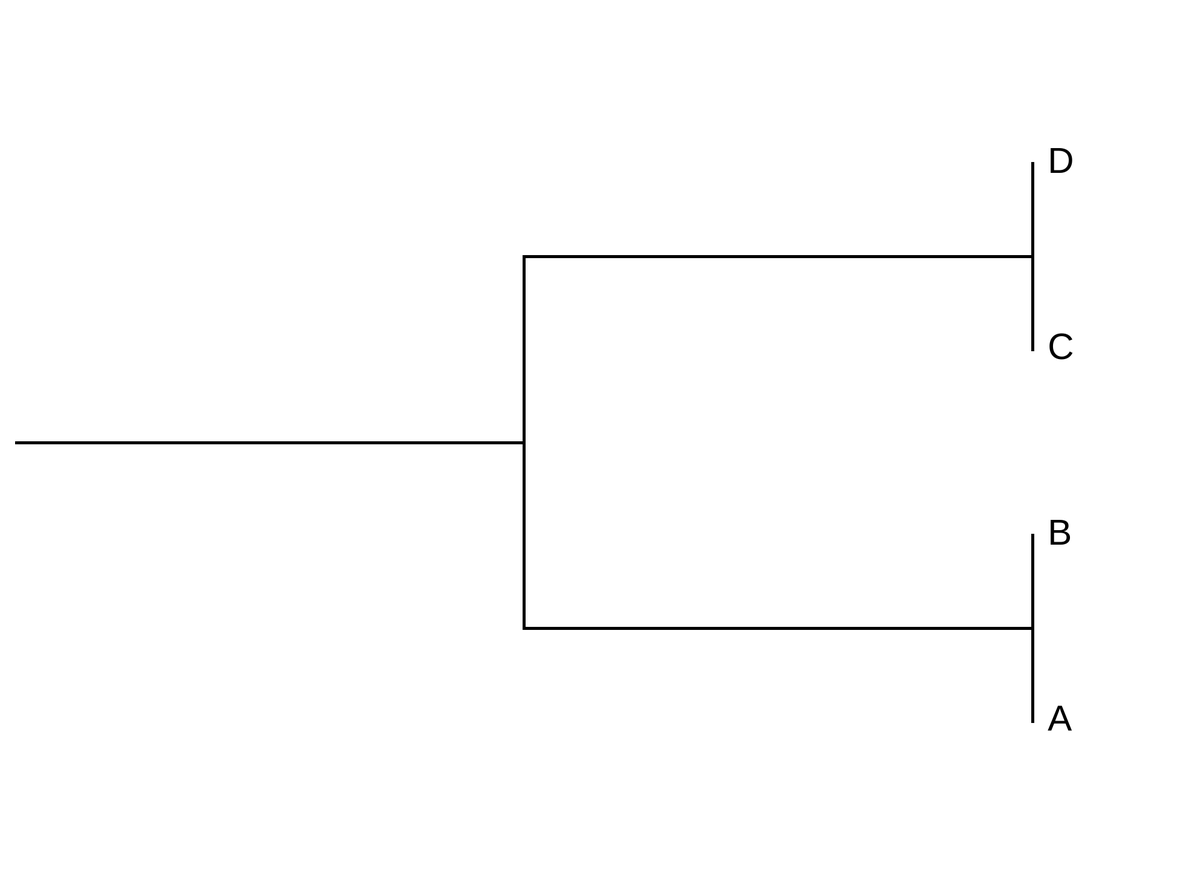
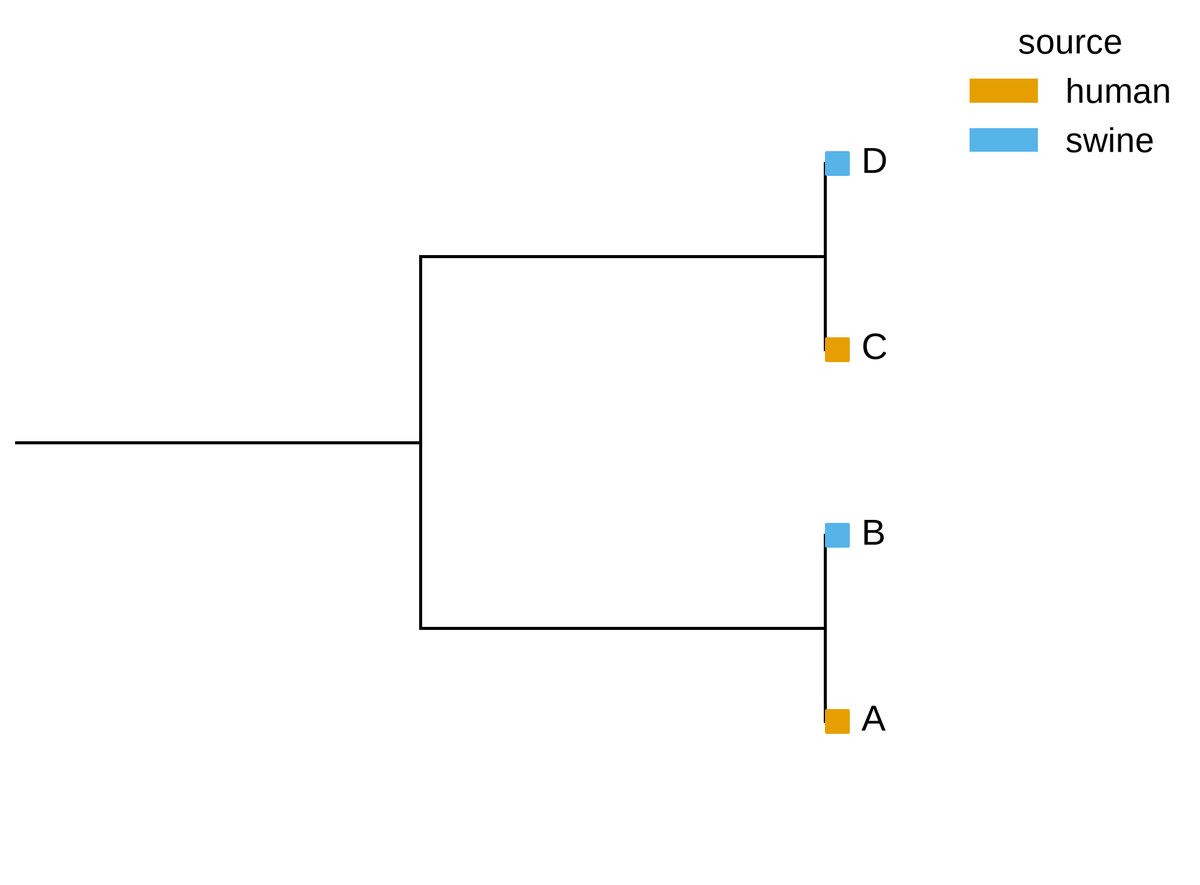
feat(analysis): tree tip annotation
- newick-to-table accepts --metadata (tip/sample/id key + annotation columns),
  copies values onto tip rows and records unmatched tips in metadata_missing.txt
- tree chart uses --hue to draw a coloured tip band and legend in both backends
- docs tutorial 09 updated with annotation example; 294 tests

diff --git a/src/gaxis/analysis/tree.py b/src/gaxis/analysis/tree.py
@@ -18,10 +18,10 @@ from ..models.analysis import AnalysisRun
 
 RECIPE_TREE = {
     "id": "newick-to-table",
-    "title": "Newick tree -> edge table",
-    "input": ".nwk/.newick/.tree Newick file",
+    "title": "Newick tree -> edge table (optional tip metadata)",
+    "input": ".nwk/.newick/.tree Newick file, optional metadata table",
     "outputs": ["tree_edges.csv"],
-    "params": [],
+    "params": ["metadata"],
     "engine": "python (stdlib only)",
     "note": "layout/format conversion only; the tree itself comes from IQ-TREE or bacmap",
 }
@@ -166,17 +166,64 @@ def parse_newick(text: str) -> list[dict[str, Any]]:
     return edges
 
 
-def run_newick_to_table(input_path: Path, *, out_dir: Path) -> AnalysisRun:
+def _read_metadata(
+    path: Path,
+) -> tuple[dict[str, dict[str, str]], list[str]]:
+    if not path.is_file():
+        raise GaxisError("data_not_found", f"metadata table not found: {path}")
+    delimiter = "\t" if path.suffix.lower() in {".tsv", ".tab"} else ","
+    with path.open(newline="", encoding="utf-8-sig") as handle:
+        reader = csv.DictReader(handle, delimiter=delimiter)
+        header = reader.fieldnames or []
+        keys = ("tip", "sample", "id", "name", "genome", "strain", "isolate")
+        key = next((name for name in header if name.lower() in keys), header[0] if header else "")
+        if not key:
+            raise GaxisError("data_contract_violation", "metadata table has no key column")
+        columns = [name for name in header if name != key]
+        records: dict[str, dict[str, str]] = {}
+        for row in reader:
+            value = (row.get(key) or "").strip()
+            if value:
+                records[value] = {name: (row.get(name) or "").strip() for name in columns}
+    if not records:
+        raise GaxisError("empty_input", "metadata table has no rows")
+    return records, columns
+
+
+def run_newick_to_table(
+    input_path: Path, *, out_dir: Path, metadata_path: Path | None = None
+) -> AnalysisRun:
     if not input_path.is_file():
         raise GaxisError("data_not_found", f"tree file not found: {input_path}")
+    out_dir = out_dir.expanduser().resolve()
+    out_dir.mkdir(parents=True, exist_ok=True)
     edges = parse_newick(input_path.read_text(encoding="utf-8", errors="replace"))
+    metadata: dict[str, dict[str, str]] = {}
+    metadata_columns: list[str] = []
+    metadata_sha = ""
+    unmatched: list[str] = []
+    if metadata_path is not None:
+        metadata, metadata_columns = _read_metadata(metadata_path)
+        metadata_sha = hashlib.sha256(metadata_path.read_bytes()).hexdigest()
+        tips = {edge["child"] for edge in edges if edge["is_tip"]}
+        for edge in edges:
+            if not edge["is_tip"]:
+                continue
+            values = metadata.get(str(edge["child"]), {})
+            for column in metadata_columns:
+                edge[column] = values.get(column, "")
+        unmatched = sorted(tips - set(metadata))
     digest = hashlib.sha256(input_path.read_bytes()).hexdigest()
     run_id = hashlib.sha256(f"newick-to-table-v1:{digest}".encode()).hexdigest()[:10]
     target = out_dir / run_id
     target.mkdir(parents=True, exist_ok=True)
+    if unmatched:
+        # Metadata is optional per tip; record the gap instead of guessing.
+        (target / "metadata_missing.txt").write_text("\n".join(unmatched) + "\n", encoding="utf-8")
     path = target / "tree_edges.csv"
     with path.open("w", newline="", encoding="utf-8") as handle:
-        writer = csv.DictWriter(handle, fieldnames=["parent", "child", "branch_length", "is_tip"])
+        fieldnames = ["parent", "child", "branch_length", "is_tip", *metadata_columns]
+        writer = csv.DictWriter(handle, fieldnames=fieldnames, extrasaction="ignore")
         writer.writeheader()
         writer.writerows(edges)
     run = AnalysisRun(
@@ -184,7 +231,11 @@ def run_newick_to_table(input_path: Path, *, out_dir: Path) -> AnalysisRun:
         recipe="newick-to-table",
         input_path=str(input_path),
         input_sha256=digest,
-        params={},
+        params={
+            "metadata": str(metadata_path) if metadata_path else "",
+            "metadata_sha256": metadata_sha,
+            "metadata_columns": metadata_columns,
+        },
         samples=0,
         genes=0,
         edges=len(edges),

diff --git a/tests/test_tree.py b/tests/test_tree.py
@@ -32,11 +32,10 @@ def test_parse_newick_rejects_garbage() -> None:
     assert excinfo.value.code == "tree_parse_failed"
 
 
-def _edges(tmp_path: Path) -> Path:
-    run = run_newick_to_table((tmp_path / "tree.nwk"), out_dir=tmp_path / "out") if False else None
+def _edges(tmp_path: Path, metadata: Path | None = None) -> Path:
     tree = tmp_path / "tree.nwk"
     tree.write_text(NEWICK, encoding="utf-8")
-    run = run_newick_to_table(tree, out_dir=tmp_path / "out")
+    run = run_newick_to_table(tree, out_dir=tmp_path / "out", metadata_path=metadata)
     return Path(run.outputs["tree_edges"])
 
 
@@ -60,3 +59,48 @@ def test_tree_renders_in_both_backends(tmp_path: Path) -> None:
         assert result.outputs
         code = Path(result.code_path).read_text(encoding="utf-8")
         assert "import gaxis" not in code
+
+
+def test_metadata_columns_are_annotated(tmp_path: Path) -> None:
+    metadata = tmp_path / "meta.csv"
+    metadata.write_text(
+        "tip,source,amr_class\nA,human,beta-lactam\nB,swine,beta-lactam\n"
+        "C,human,tetracycline\nD,swine,tetracycline\n",
+        encoding="utf-8",
+    )
+    edges = _edges(tmp_path, metadata)
+    text = edges.read_text(encoding="utf-8")
+    assert "source" in text
+    assert "human" in text
+
+
+def test_tree_hue_renders_in_both_backends(tmp_path: Path) -> None:
+    metadata = tmp_path / "meta.csv"
+    metadata.write_text("tip,source\nA,human\nB,swine\nC,human\nD,swine\n", encoding="utf-8")
+    edges = _edges(tmp_path, metadata)
+    for backend in ("python", "r"):
+        result = render(
+            RenderRequest(
+                data_path=str(edges),
+                out_dir=str(tmp_path / f"hue-{backend}"),
+                chart_type="tree",
+                x="parent",
+                y="child",
+                weight="branch_length",
+                hue="source",
+                preset="asm",
+                backend=backend,  # type: ignore[arg-type]
+                formats=["pdf", "png"],
+            )
+        )
+        assert result.lint.ok, result.lint.format_text()
+
+
+def test_metadata_rejects_an_empty_table(tmp_path: Path) -> None:
+    metadata = tmp_path / "empty.csv"
+    metadata.write_text("tip,source\n", encoding="utf-8")
+    tree = tmp_path / "tree.nwk"
+    tree.write_text(NEWICK, encoding="utf-8")
+    with pytest.raises(GaxisError) as excinfo:
+        run_newick_to_table(tree, out_dir=tmp_path / "out", metadata_path=metadata)
+    assert excinfo.value.code == "empty_input"

diff --git a/src/gaxis/adapters/cli.py b/src/gaxis/adapters/cli.py
@@ -1009,7 +1009,10 @@ def analysis_check_cmd(
 @analysis_app.command("run")
 def analysis_run_cmd(
     recipe: str = typer.Argument(..., help="recipe id, e.g. amr-cooccurrence"),
-    input: Path = typer.Option(..., "--input", "-i", help="long table: sample,gene[,gene_class]"),
+    input: Path = typer.Option(..., "--input", "-i", help="long table or Newick file"),
+    metadata: Path | None = typer.Option(
+        None, "--metadata", help="tip metadata table for newick-to-table"
+    ),
     out: Path | None = typer.Option(None, "--out"),
     min_prevalence: float = typer.Option(0.05, "--min-prevalence"),
     min_support: int = typer.Option(2, "--min-support"),
@@ -1024,6 +1027,7 @@ def analysis_run_cmd(
             recipe,
             input_path=input,
             out_dir=out,
+            metadata_path=metadata,
             params=AmrCooccurrenceParams(
                 min_prevalence=min_prevalence,
                 min_support=min_support,

diff --git a/src/gaxis/service.py b/src/gaxis/service.py
@@ -1518,12 +1518,13 @@ def analysis_run(
     input_path: Path,
     out_dir: Path | None = None,
     params: AmrCooccurrenceParams | None = None,
+    metadata_path: Path | None = None,
 ) -> AnalysisRun:
     """Run an analysis recipe on the user's table and write nodes/edges."""
     conf = settings()
     target = (out_dir or (conf.data_root / "analysis")).expanduser().resolve()
     if recipe == "newick-to-table":
-        return run_newick_to_table(input_path, out_dir=target)
+        return run_newick_to_table(input_path, out_dir=target, metadata_path=metadata_path)
     if recipe != "amr-cooccurrence":
         raise GaxisError(
             "unknown_recipe",

diff --git a/docs/tutorial/09-snp-tree-workflow.md b/docs/tutorial/09-snp-tree-workflow.md
@@ -46,6 +46,18 @@ results/iqtree.log
 - `metadata` is optional and reserved for tree annotation in the next step.
 - bacmap can schedule the same Snakefile; gaxis is not in the execution path.
 
+## Join tip metadata (optional)
+
+```bash
+pixi run gaxis analysis run newick-to-table \
+  --input results/tree.nwk --metadata metadata.csv --out data/analysis
+```
+
+`metadata.csv` needs a key column (`tip`, `sample`, `id`, `name`, `genome`, `strain` or
+`isolate`) plus any annotation columns; values are copied onto tip rows, so the tree table
+gains `source`, `amr_class`, etc. Missing tips are listed in `metadata_missing.txt` inside the
+run directory instead of being guessed.
+
 ## Render the tree
 
 ```bash
@@ -54,14 +66,15 @@ pixi run gaxis analysis run newick-to-table \
 
 pixi run gaxis render \
   --data data/analysis/<run_id>/tree_edges.csv \
-  --chart tree --x parent --y child --weight branch_length \
+  --chart tree --x parent --y child --weight branch_length --hue source \
   --preset asm --out data/figures
 ```
 
-Rectangular cladogram, branch lengths from `branch_length`, tip labels; matplotlib and
-ggplot2 both render it. The tree itself still comes from IQ-TREE, not gaxis.
+Rectangular cladogram, branch lengths from `branch_length`, tip labels, and a colour band
+per tip from `--hue` (`source` in this example) with a legend. matplotlib and ggplot2 both
+render it. The tree itself still comes from IQ-TREE, not gaxis.
 
-![Tree example](/gaxis/assets/example-tree.png)
+![Annotated tree example](/gaxis/assets/example-tree.png)
 
 ## Validate another checkout
 
@@ -86,5 +99,6 @@ pixi run gaxis analysis check workflows/snp-tree
 
 ## Next
 
-Tree annotation (AMR class / source / type colour bands next to the tips) is the next step; the
-tree layout and workflow output are already stable contracts.
+Multi-column annotation strips (source + AMR class + type side by side) and shared legends with
+the AMR network figure are the next step; the single-column annotation and workflow output are
+stable contracts.

diff --git a/docs/tutorial/09-snp-tree-workflow.zh.md b/docs/tutorial/09-snp-tree-workflow.zh.md
@@ -45,6 +45,17 @@ results/iqtree.log
 - `metadata` 可选，留给下一步的树注释。
 - bacmap 可以调度同一个 Snakefile；gaxis 不在执行路径里。
 
+## 合并 tip metadata（可选）
+
+```bash
+pixi run gaxis analysis run newick-to-table \
+  --input results/tree.nwk --metadata metadata.csv --out data/analysis
+```
+
+`metadata.csv` 需要一个 key 列（`tip`、`sample`、`id`、`name`、`genome`、`strain` 或 `isolate`）
+以及任意注释列；值会复制到 tip 行，树表因此多出 `source`、`amr_class` 等列。缺失的 tip 会写入
+运行目录的 `metadata_missing.txt`，不猜。
+
 ## 渲染树
 
 ```bash
@@ -53,14 +64,14 @@ pixi run gaxis analysis run newick-to-table \
 
 pixi run gaxis render \
   --data data/analysis/<run_id>/tree_edges.csv \
-  --chart tree --x parent --y child --weight branch_length \
+  --chart tree --x parent --y child --weight branch_length --hue source \
   --preset asm --out data/figures
 ```
 
-矩形进化树；分支长度来自 `branch_length`，tip 标签自动放置；matplotlib 与 ggplot2 双后端。
-树本身仍由 IQ-TREE 生成，gaxis 只做布局与出图。
+矩形进化树；分支长度来自 `branch_length`，tip 标签自动放置，`--hue`（这里是 `source`）在 tip
+旁画色带并生成图例。matplotlib 与 ggplot2 双后端。树本身仍由 IQ-TREE 生成，gaxis 只做布局与出图。
 
-![树图示例](/gaxis/assets/example-tree.png)
+![带注释的树图示例](/gaxis/assets/example-tree.png)
 
 ## 校验已有项目
 
@@ -85,4 +96,5 @@ pixi run gaxis analysis check workflows/snp-tree
 
 ## 下一步
 
-树注释（AMR 类别 / 来源 / 型别色带贴在 tip 旁）是下一步；树布局与工作流输出已经是稳定契约。
+多列注释条（source + AMR class + 型别并排）以及与 AMR 网络图共享图例是下一步；单列注释与工作流
+输出已经是稳定契约。

diff --git a/docs/reference/cli.md b/docs/reference/cli.md
@@ -102,7 +102,7 @@ Single-figure reproduction → grading → automatic assetization + KB refresh.
 |---|---|
 | `gaxis analysis list [--json]` | available analysis recipes, input contract, outputs |
 | `gaxis analysis run amr-cooccurrence --input TABLE [--out DIR] [--min-prevalence F] [--min-support N] [--weight jaccard\|count]` | table → `nodes.csv` + `edges.csv` + `analysis.json` |
-| `gaxis analysis run newick-to-table --input tree.nwk [--out DIR]` | Newick → `tree_edges.csv` (parent, child, branch_length) |
+| `gaxis analysis run newick-to-table --input tree.nwk [--metadata META] [--out DIR]` | Newick → `tree_edges.csv` (parent, child, branch_length) |
 | `gaxis analysis workflows` | list Snakemake workflow recipes |
 | `gaxis analysis scaffold snp-tree --out DIR --alignment FASTA [--container IMAGE] [--check]` | generate a validated IQ-TREE workflow project |
 | `gaxis analysis check DIR` | validate an existing workflow with `snakemake -n` |

diff --git a/docs/reference/cli.zh.md b/docs/reference/cli.zh.md
@@ -102,7 +102,7 @@
 |---|---|
 | `gaxis analysis list [--json]` | 可用分析 recipe、输入契约、输出 |
 | `gaxis analysis run amr-cooccurrence --input TABLE [--out DIR] [--min-prevalence F] [--min-support N] [--weight jaccard\|count]` | 表 → `nodes.csv` + `edges.csv` + `analysis.json` |
-| `gaxis analysis run newick-to-table --input tree.nwk [--out DIR]` | Newick → `tree_edges.csv`（parent、child、branch_length） |
+| `gaxis analysis run newick-to-table --input tree.nwk [--metadata META] [--out DIR]` | Newick → `tree_edges.csv`（parent、child、branch_length） |
 | `gaxis analysis workflows` | 列出 Snakemake 工作流 recipe |
 | `gaxis analysis scaffold snp-tree --out DIR --alignment FASTA [--container IMAGE] [--check]` | 生成并校验 IQ-TREE 工作流项目 |
 | `gaxis analysis check DIR` | 用 `snakemake -n` 校验已有工作流 |

diff --git a/CHANGELOG.md b/CHANGELOG.md
@@ -26,6 +26,9 @@ Format: keep-a-changelog-ish. Versions follow `pyproject.toml`.
   (`https://github. com/owner/repo`) are rejoined before matching; local PDF ingestion now runs
   code discovery too (it previously only ran for DOI/URL sources).
 
+- **Tree annotation**: `newick-to-table --metadata` joins a tip metadata table onto the tree
+  (key: tip/sample/id/name/genome/strain/isolate; missing tips listed in `metadata_missing.txt`);
+  `gaxis render --chart tree ... --hue source` draws a coloured tip band + legend in both backends.
 - **Tree chart + Newick conversion**: `gaxis analysis run newick-to-table` converts a Newick tree to
   a parent/child/branch table; `gaxis render --chart tree --x parent --y child --weight branch_length`
   draws a rectangular cladogram in both backends. Contract v2.3. The tree still comes from IQ-TREE.

diff --git a/docs/tutorial/index.md b/docs/tutorial/index.md
@@ -12,7 +12,7 @@ The tutorials map to gaxis's two main workflows, the analysis-recipe bridge, and
 | [06 Operations](06-operations.md) | Automated onboarding queue, scheduled tasks, self-healing checks | Yes | Yes |
 | [07 LLM reconstruction](07-llm-reconstruction.md) | Figure code when author code is missing or broken (labelled `llm_*`) | Yes | No |
 | [08 AMR co-occurrence network](08-amr-network.md) | Table → co-occurrence edges → network figure, no AMR re-calling | No | No |
-| [09 SNP tree workflow](09-snp-tree-workflow.md) | Snakemake scaffold + validation for IQ-TREE, then a tree figure | No | No |
+| [09 SNP tree workflow](09-snp-tree-workflow.md) | Snakemake scaffold + validation, Newick conversion, annotated tree figure | No | No |
 
 ## Recommended practice order
 

diff --git a/docs/tutorial/index.zh.md b/docs/tutorial/index.zh.md
@@ -11,7 +11,7 @@
 | [05 多面板拼版](05-compose-panels.zh.md) | 一页矢量多面板图 + 合成 manifest | 否 | 否 |
 | [06 运维](06-operations.zh.md) | 自动入库队列、定时任务、自愈检查 | 是 | 是 |
 | [08 AMR 共现网络](08-amr-network.zh.md) | 表 → 共现边 → 画网络图，不重跑 AMR | 否 | 否 |
-| [09 SNP 树工作流](09-snp-tree-workflow.zh.md) | IQ-TREE 的 Snakemake 脚手架与校验，再由 gaxis 出树图 | 否 | 否 |
+| [09 SNP 树工作流](09-snp-tree-workflow.zh.md) | Snakemake 脚手架/校验、Newick 转换、带注释的树图 | 否 | 否 |
 
 ## 建议的练习顺序
 
